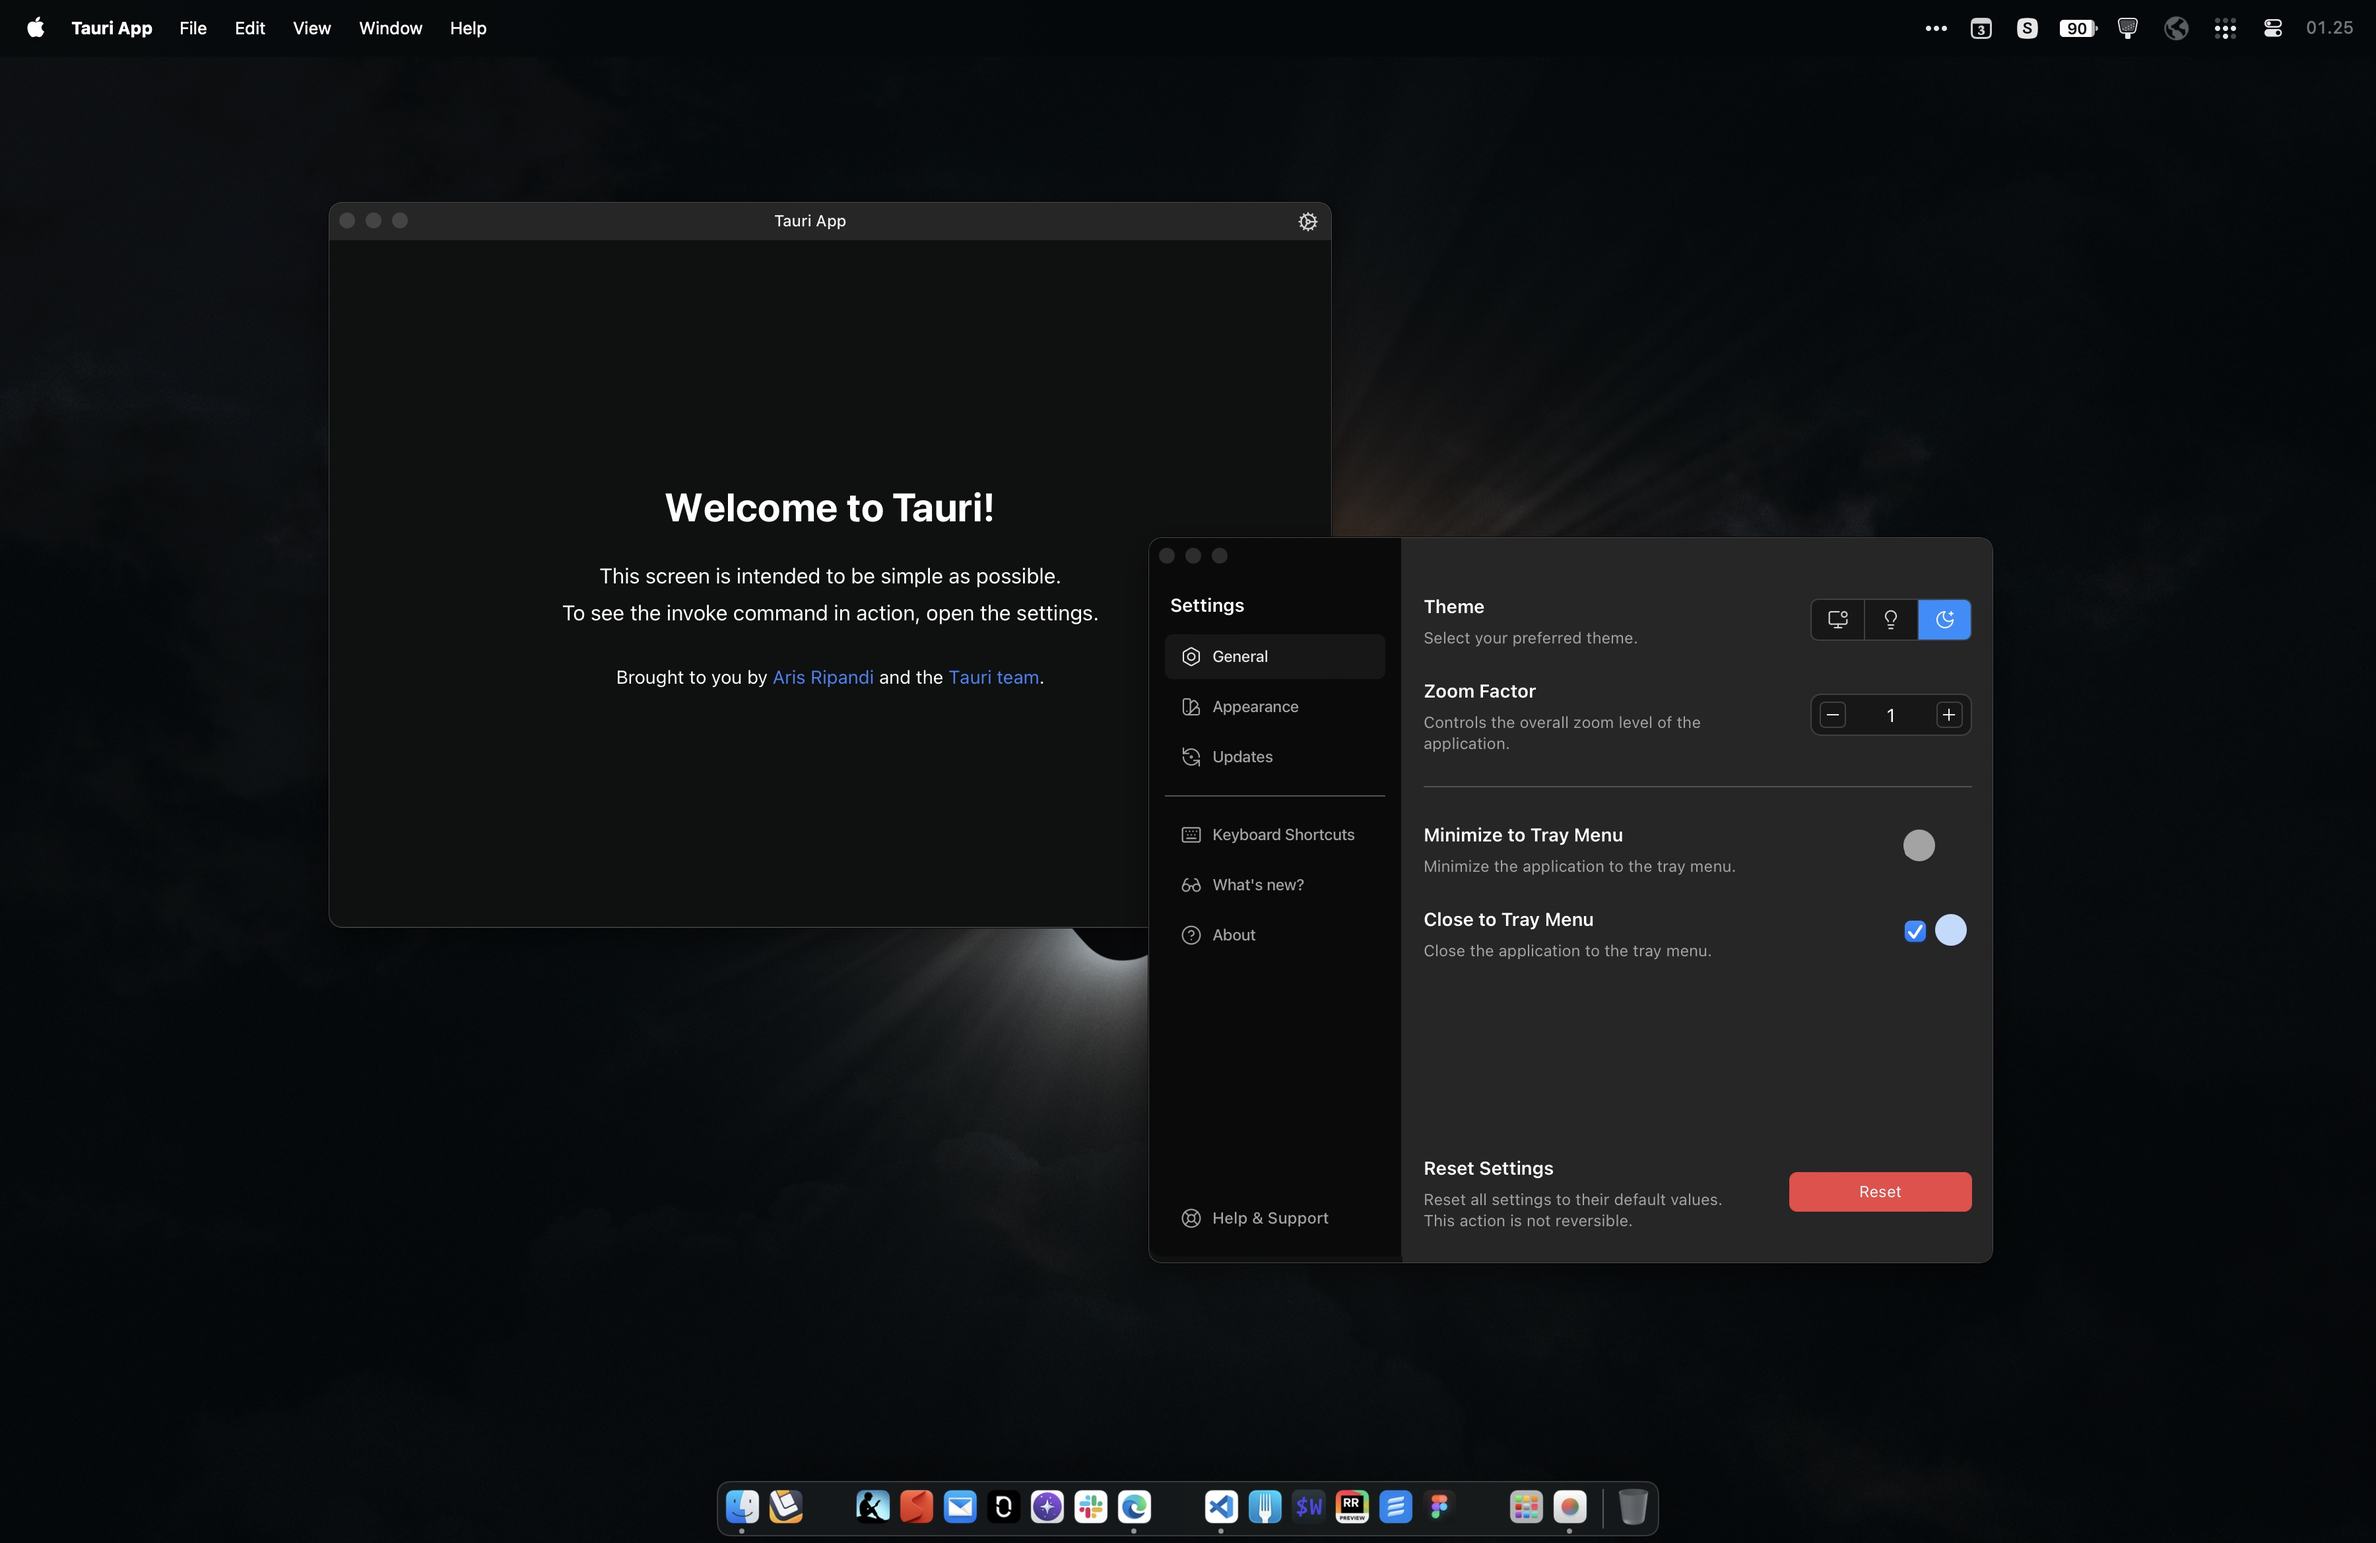
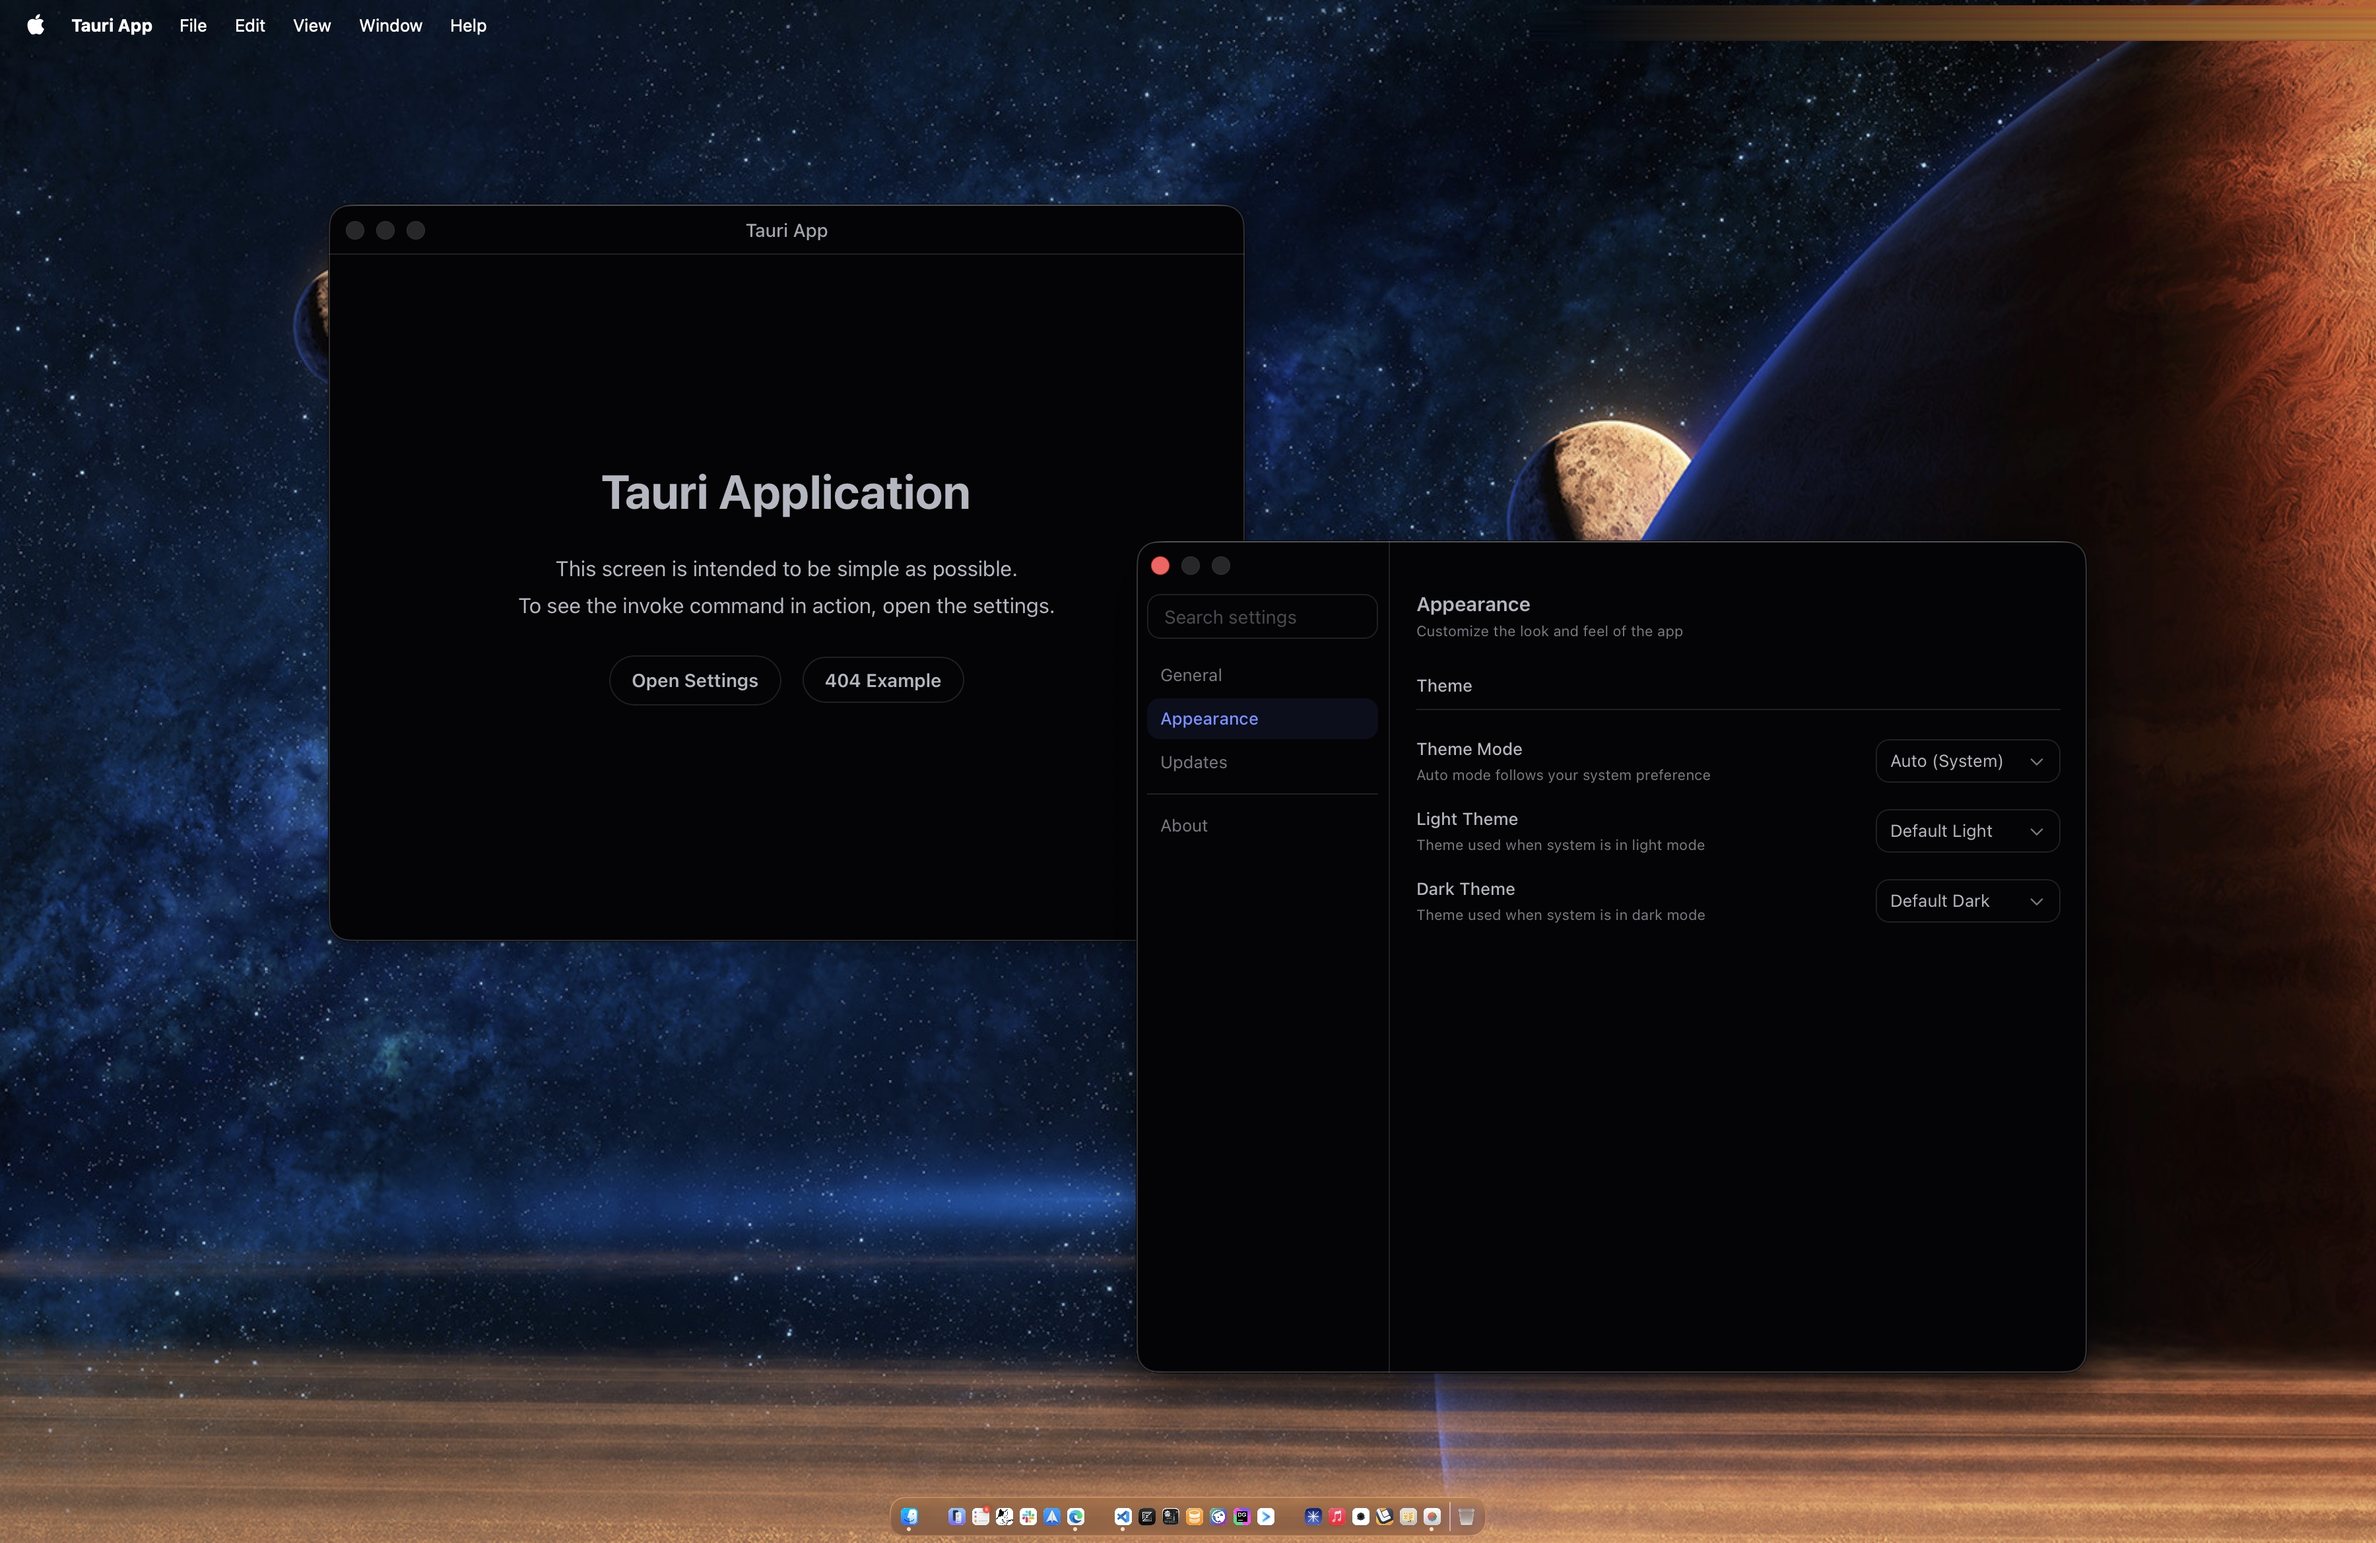
various fixes and improvement

diff --git a/src-app/routes/-errors.tsx b/src-app/routes/-errors.tsx
@@ -1,23 +1,61 @@
-import { Link } from '@tanstack/solid-router'
+import { useCanGoBack, useRouter } from '@tanstack/solid-router'
+import { clsx } from 'clsx'
 
 export function GlobalNotFound() {
+  const router = useRouter()
+  const canGoBack = useCanGoBack()
+
+  const handleBack = () => {
+    if (canGoBack()) {
+      router.history.back()
+    } else {
+      router.navigate({ href: '/' })
+    }
+  }
+
   return (
-    <main class='flex items-center justify-center min-h-screen w-full'>
-      <div class='px-8 py-10 text-center rounded-xl max-w-xl'>
-        <h1 class='text-6xl font-bold leading-none mb-4 bg-linear-to-br from-primary to-positive bg-clip-text text-transparent'>
-          404
-        </h1>
-        <h2 class='text-2xl font-bold mb-3 text-foreground-neutral'>Page not found</h2>
-        <p class='text-base leading-relaxed text-foreground-neutral-faded mb-8'>
-          The page you're looking for doesn't exist or has been moved to a different location.
-        </p>
-        <Link
-          to='/'
-          class='inline-block rounded-full border border-border-neutral/20 bg-background-page/50 py-2.5 px-5 text-sm font-semibold text-foreground-neutral transition-all hover:-translate-y-0.5 hover:border-foreground-neutral/35 active:translate-y-0 text-decoration-none'
-        >
-          Go Home
-        </Link>
+    <div class='relative min-h-screen bg-background-page'>
+      <div
+        class='flex items-center justify-between w-full relative z-50 select-none shrink-0 h-9.5 bg-transparent'
+        data-tauri-drag-region
+      ></div>
+
+      {/* Decorative gradient */}
+      <div class='absolute inset-0 overflow-hidden'>
+        <div class='-inset-2.5 absolute opacity-50'>
+          <div class='absolute top-0 h-160 w-full bg-linear-to-b from-background-primary/30 via-transparent to-transparent' />
+        </div>
       </div>
-    </main>
+
+      <div class='relative flex min-h-screen flex-col items-center justify-center px-4 pt-16 pb-32 sm:px-6 lg:px-8'>
+        {/* 404 Content */}
+        <div class='text-center'>
+          <p class='font-bold text-2xl text-on-background-primary'>404</p>
+          <h1 class='mt-4 font-bold text-3xl text-white tracking-tight sm:text-5xl'>
+            Page not found
+          </h1>
+          <p class='mt-6 text-base text-foreground-neutral leading-7'>
+            Sorry, we couldn't find the page you're looking for.
+          </p>
+          <div class='mt-8 flex items-center justify-center gap-x-4'>
+            <button
+              type='button'
+              class={clsx(
+                'min-w-40 rounded bg-background-primary px-5 py-2.5 font-semibold text-on-background-primary text-sm duration-200',
+                'hover:bg-background-primary/80 focus:outline-none focus:ring-2 focus:ring-border-primary focus:ring-offset-2 focus:ring-offset-border-primary-faded'
+              )}
+              onClick={handleBack}
+            >
+              Go back
+            </button>
+          </div>
+        </div>
+
+        {/* Decorative 404 background */}
+        <div class='pointer-events-none absolute select-none'>
+          <h2 class='font-bold text-[20rem] text-foreground-primary/5'>404</h2>
+        </div>
+      </div>
+    </div>
   )
 }

diff --git a/src-app/routes/(primary)/index.tsx b/src-app/routes/(primary)/index.tsx
@@ -1,5 +1,4 @@
 import { createFileRoute } from '@tanstack/solid-router'
-import { Button } from '#/components/button'
 import settingService from '#/services/settings.service'
 
 export const Route = createFileRoute('/(primary)/')({
@@ -10,20 +9,29 @@ function RouteComponent() {
   return (
     <main class='mx-auto my-0 w-full'>
       <div class='rounded-3xl py-12 px-8 max-w-125 w-full mt-[20vh] mx-auto'>
-        <h1 class='text-[2.5rem] font-bold mb-8 text-center text-foreground-neutral select-text'>
+        <h1 class='text-4xl font-bold mb-6 text-center text-foreground-neutral'>
           Tauri Application
         </h1>
-        <div class='flex gap-3 justify-center flex-wrap'>
-          <button
-            type='button'
-            onClick={settingService.openWindow}
-            class='px-5 py-2.5 rounded-full border border-border-neutral/20 bg-background-page/50 text-sm font-semibold text-foreground-neutral transition-all hover:-translate-y-0.5 hover:border-foreground-neutral/35 active:translate-y-0'
-          >
-            Settings
-          </button>
-          <a href='/404' class='inline-block text-decoration-none'>
-            <Button variant='secondary'>404 Example</Button>
-          </a>
+        <div class='flex gap-6 justify-center flex-wrap'>
+          <p class='text-center leading-7'>
+            This screen is intended to be simple as possible. <br />
+            To see the invoke command in action, open the settings.
+          </p>
+          <div class='space-x-4'>
+            <button
+              type='button'
+              onClick={settingService.openWindow}
+              class='px-4 py-2 rounded-full border border-border-neutral bg-background-page/50 text-sm font-semibold text-foreground-neutral hover:border-foreground-neutral/35'
+            >
+              Open Settings
+            </button>
+            <a
+              href='/404'
+              class='px-4 py-2 rounded-full border border-border-neutral bg-background-page/50 text-sm font-semibold text-foreground-neutral hover:border-foreground-neutral/35'
+            >
+              404 Example
+            </a>
+          </div>
         </div>
       </div>
     </main>

diff --git a/README.md b/README.md
@@ -1,16 +1,128 @@
-# Tauri Start Solid
+# ⚡ Tauri Start Solid
 
-This template should help get you started developing with Tauri, Solid and Typescript in Vite.
+[![Contribution welcome](https://img.shields.io/badge/Contributions-welcome-gray.svg)](https://github.com/riipandi/tauri-start-solid/pulse)
+[![Rust version](https://img.shields.io/badge/rust-v1.90-FF5500.svg?logo=rust)](https://www.rust-lang.org)
+[![Tauri version](https://img.shields.io/badge/Tauri-v2-00aaff.svg?logo=tauri)](https://tauri.app)
+![Repo Size](https://img.shields.io/github/repo-size/riipandi/tauri-start-solid)
+<!-- [![CI Test](https://github.com/riipandi/tauri-start-solid/actions/workflows/test.yml/badge.svg)](https://github.com/riipandi/tauri-start-solid/actions/workflows/test.yml) -->
 
-To run this application:
+---
+
+This project template should help get you started developing a multi-platform desktop application using
+Tauri, SolidJS, TanStack Router, Nano Stores, Typescript, Tailwind CSS, and Vite.
+
+## Quick Start
 
 ```sh
-pnpm install
-pnpm dev
+pnpm dlx tiged riipandi/tauri-start-solid my-app
 ```
+
+1. Install required toolchains: [Rust][rust], [Node.js][nodejs], [PNPM][pnpm], and [Lefthook][lefthook].
+2. Replace the project name in the [`package.json`](./package.json), [`Cargo.toml`](./src-tauri/Cargo.toml),
+   and [`tauri.conf.json`](./src-tauri/tauri.conf.json) files.
+3. Find and replace `tauri-start-solid`, `tauri_start_solid` and `Tauri App` strings in the source files.
+4. Set application identifier and other application metadata in [`tauri.conf.json`](./src-tauri/tauri.conf.json) file.
+5. Install frontend dependencies by running `pnpm install`.
+6. Run `pnpm dev` to start developing.
+
+To build the application, run `pnpm build`. You can also run `pnpm build:debug`
+to build the application in debug mode, this will enable developer tools.
+
+## What's Inside?
+
+- [x] Tauri v2 + essential plugins:
+    - [x] `tauri-plugin-dialog`
+    - [x] `tauri-plugin-http`
+    - [x] `tauri-plugin-log`
+    - [x] `tauri-plugin-notification`
+    - [x] `tauri-plugin-opener`
+    - [x] `tauri-plugin-os`
+    - [x] `tauri-plugin-positioner`
+    - [x] `tauri-plugin-process`
+    - [x] `tauri-plugin-shell`
+- [x] Custom titlebar (desktop)
+- [x] Custom application menu
+- [x] Application updater
+- [x] Read values from `.env` file
+- [x] Theme switcher (dark & light mode)
+- [x] Multiple theme support with Tailwind CSS
+- [x] Application settings with separated window
+- [x] Frontend app with [SolidJS][solidjs] + [Tailwind CSS][tailwindcss]
+- [x] Routing with [TanStack Router][tanstack-router]
+- [x] State management with [Nano Stores][nanostores]
+- [x] Linter and formatter with [Oxlint][oxlint] and [Oxfmt][oxfmt]
+- [x] Git hooks tasks with [Lefthook][lefthook]
+- [x] GitHub actions for CI testing and build
+
+## Recommended IDE Setup
+
+[Visual Studio Code](https://code.visualstudio.com/) + [Recomended extensions](./.vscode/extensions.json)
+
+### Fix Unsigned Warning (macOS)
+
+> Warning: "Tauri App" is damaged and can't be opened.
+
+This warning is shown because the build is not signed. Run the following command
+ to suppress this warning:
+
+```sh
+xattr -r -d com.apple.quarantine "/Applications/Tauri App.app"
+```
+
+## Screenshots
+
+![Screenshot](./assets/images/screenshot-light.jpeg)
+![Screenshot](./assets/images/screenshot-dark.jpeg)
 
 # Learn More
 
 You can learn more about all of the offerings from TanStack in the [TanStack documentation](https://tanstack.com).
 
 Type assertion is necessary for Kobalte polymorphic components. See: https://kobalte.dev/docs/core/overview/polymorphism
+
+## Acknowledgements
+
+- [Tauri Examples Repo](https://github.com/tauri-apps/tauri/tree/dev/examples)
+- [tauri-start-solid-example](https://github.com/dheater/tauri-start-solid-example)
+- [tauri-tray-icon-animation](https://github.com/rming/tauri-tray-icon-animation)
+- [tauri-tray-menu](https://github.com/rming/tauri-tray-menu)
+- [tauri-window-controls](https://github.com/agmmnn/tauri-controls)
+- [tauri-plugin-theme](https://github.com/wyhaya/tauri-plugin-theme)
+- [hamza72x/web2app](https://github.com/hamza72x/web2app)
+- [Create a Menu Bar App With Tauri](https://betterprogramming.pub/create-menubar-app-with-tauri-510ab7f7c43d)
+- [Publishing Tauri to Apple's App Store](https://thinkgo.io/post/2023/02/publish_tauri_to_apples_app_store)
+- [GTK Installation Docs](https://www.gtk.org/docs/installations/macos)
+- [Tips For Faster Rust Compile Times](https://corrode.dev/blog/tips-for-faster-rust-compile-times)
+- [Tauri State Management](https://tauri.by.simon.hyll.nu/concepts/tauri/state_management)
+
+## License
+
+Licensed under either of [Apache License 2.0][license-apache] or [MIT license][license-mit] at your option.
+
+> Unless you explicitly state otherwise, any contribution intentionally submitted
+> for inclusion in this project by you, as defined in the Apache-2.0 license, shall
+> be dual licensed as above, without any additional terms or conditions.
+
+Copyrights in this project are retained by their contributors.
+
+See the [LICENSE-APACHE](./LICENSE-APACHE) and [LICENSE-MIT](./LICENSE-MIT) files for more information.
+
+[lefthook]: https://github.com/evilmartians/lefthook
+[license-apache]: https://choosealicense.com/licenses/apache-2.0/
+[license-mit]: https://choosealicense.com/licenses/mit/
+[nanostores]: https://github.com/nanostores/nanostores
+[nodejs]: https://nodejs.org/en/download
+[oxfmt]: https://oxc.rs/docs/guide/usage/formatter
+[oxlint]: https://oxc.rs/docs/guide/usage/linter
+[pnpm]: https://pnpm.io/installation
+[riipandi-twitter]: https://twitter.com/intent/follow?screen_name=riipandi
+[rust]: https://www.rust-lang.org/tools/install
+[solidjs]: https://www.solidjs.com
+[tanstack-router]: https://tanstack.com/router
+[tailwindcss]: https://tailwindcss.com
+
+---
+
+<sub>🤫 Psst! If you like my work you can support me via [GitHub sponsors](https://github.com/sponsors/riipandi).</sub>
+
+[![Made by](https://badgen.net/badge/icon/Made%20by%20Aris%20Ripandi?icon=bitcoin-lightning&label&color=black&labelColor=black)][riipandi-twitter]
